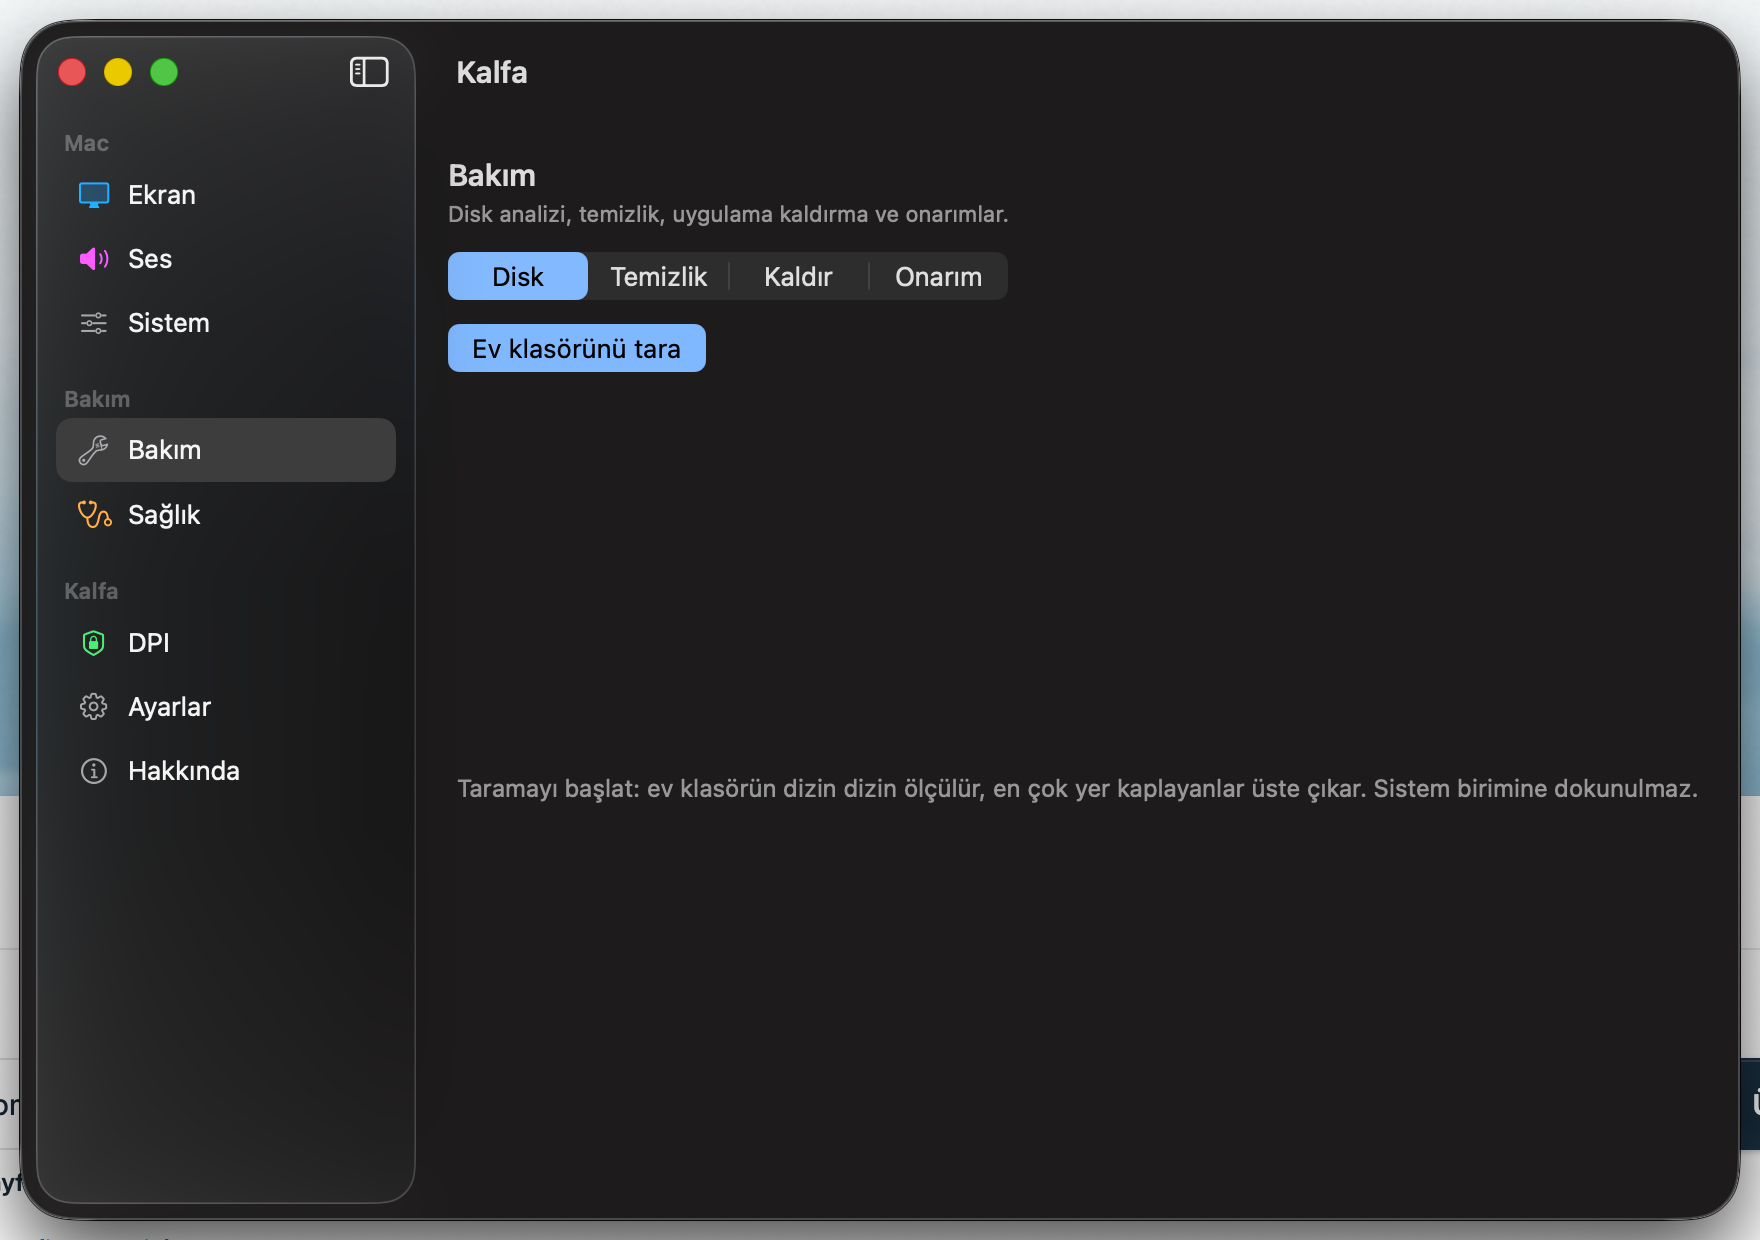
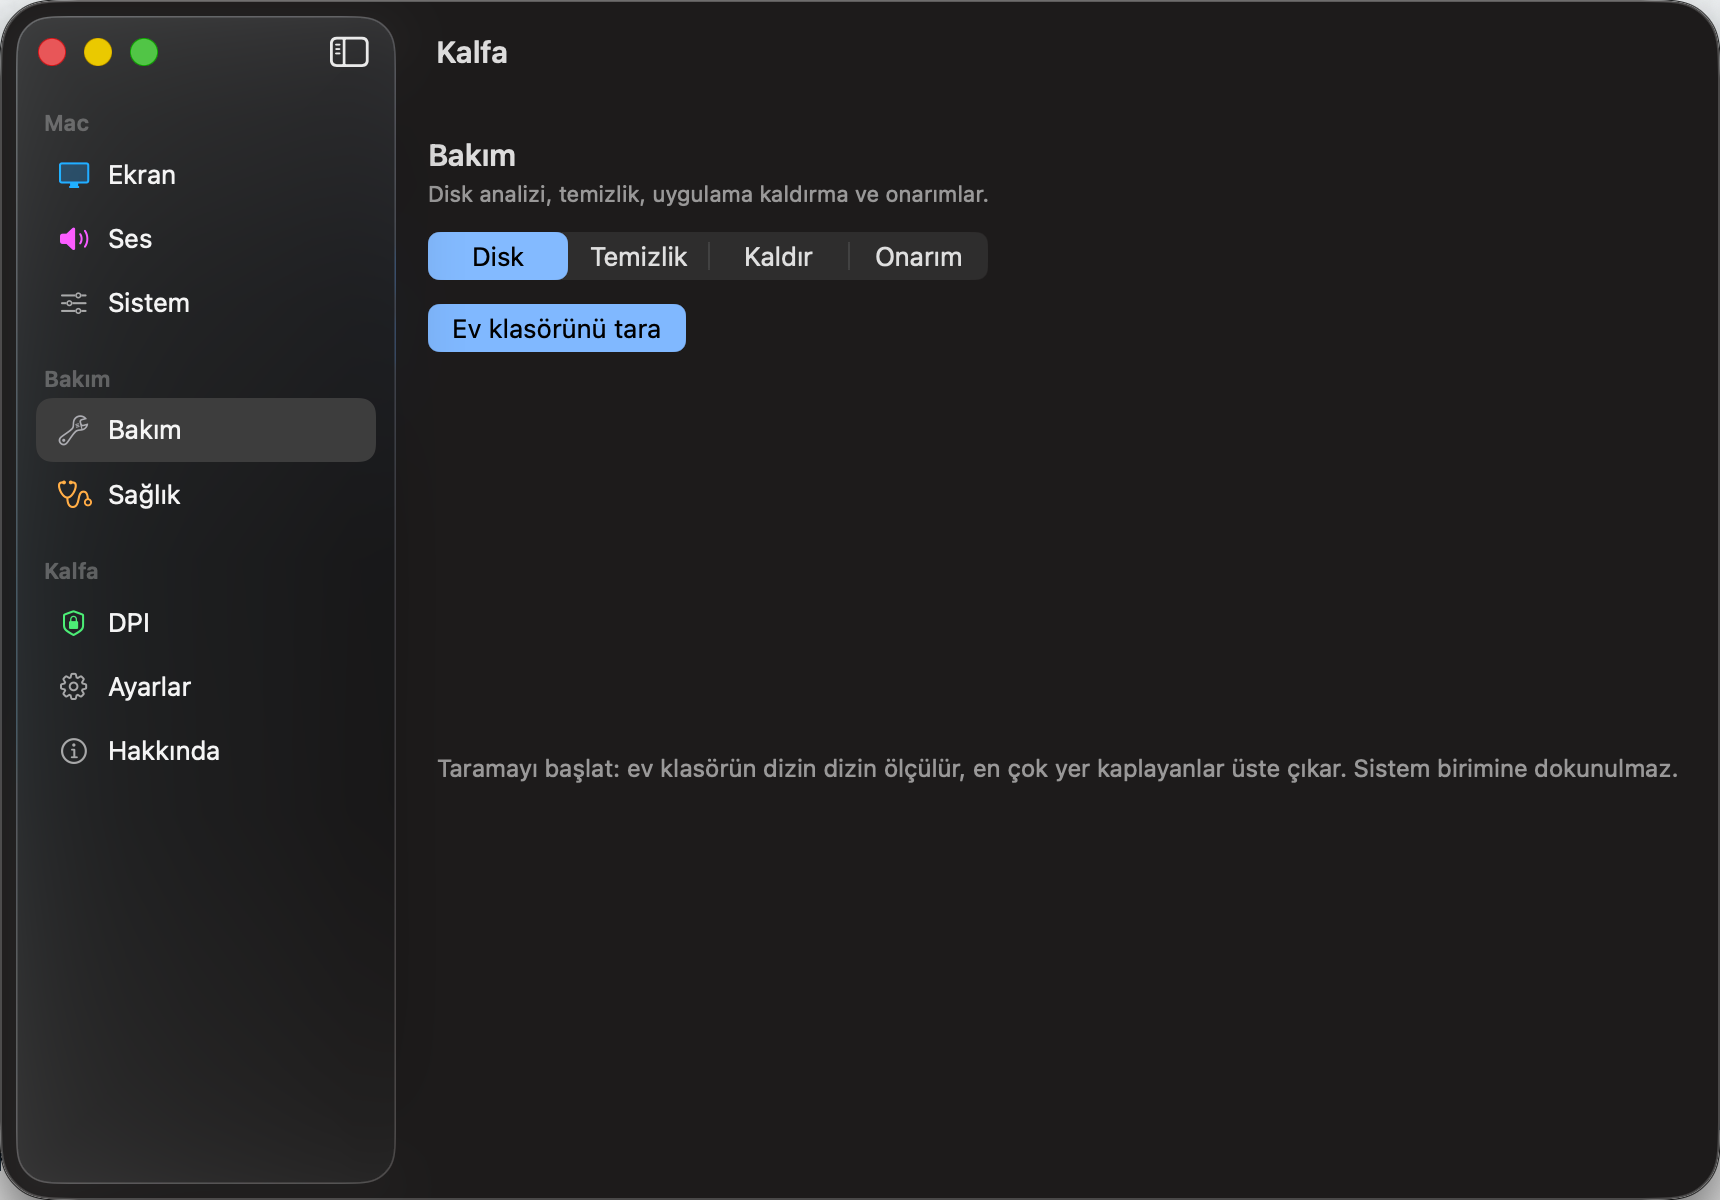
ci: derleme ve test iş akışı + CHANGELOG
Herkese açık bir depoda ziyaretçinin ilk sorusu "derleniyor mu" oluyor;
rozet bunu cevaplıyor. İş akışı uygulamayı derliyor, bakım testlerini ve
DPI'nın ağ gerektirmeyen testlerini koşuyor, sonra --dump çıktısını
alıyor.

Ağ testleri bilerek dışarıda: proxy oturumu gerçek sitelere bağlanıyor,
koşucunun ağı yavaşlayınca kırmızı yanar ve bir süre sonra kimse CI'ya
bakmaz olur. Ayrıştırıcı ve parçalayıcı testleri saf mantık, her koşuda
çalışıyor.

Ekran görüntülerindeki kenar payı kırpıldı: arkadaki pencerelerden
okunaksız metin parçaları görünüyordu.

Changed region(s): [[0.0, 0.0, 1.0, 1.0], [0.2465, 0.1233, 0.5855, 0.3083]]

diff --git a/CHANGELOG.md b/CHANGELOG.md
@@ -1,0 +1,39 @@
+# Değişiklikler
+
+Biçim: [Keep a Changelog](https://keepachangelog.com/tr/1.1.0/),
+sürümleme [SemVer](https://semver.org/lang/tr/).
+
+## [Yayınlanmadı]
+
+İlk herkese açık sürüm hazırlanıyor. Aşağıdakiler `v1.0.0` ile yayınlanacak.
+
+### Eklendi
+- Menü çubuğu paneli: durum çipleri, altı anahtar, beş açılır kart.
+- Tek pencere (kenar çubuklu): Ekran · Ses · Sistem · Bakım · Sağlık · DPI ·
+  Ayarlar · Hakkında.
+- Komut paleti: kısayolla her yerden, Türkçe karakterden bağımsız arama.
+- Ekran: HiDPI, gizli modlar, piksel eşleşmesi etiketleri, 15 saniyelik onaylı
+  geçiş, DDC parlaklık/kontrast, kablo sinyali göstergesi, profiller.
+- Ses: cihaz seçimi, cihaz başına seviye hafızası, gerçek sistem geneli mikrofon
+  susturma, uygulama başına karıştırıcı (macOS 14.2+).
+- Sistem: uyanık tut, sunum modu, zamanlayıcı, pencere yerleştirme, DNS, harici
+  disk çıkarma, gizli anahtarlar, klavye kısayolları.
+- Bakım: disk analizi, temizlik, uygulama kaldırma, onarım.
+- Sağlık: bir özelliğin neden çalışmadığını tek sayfada gösterir.
+- Kesintisiz fare kaydırması.
+- DPI: engellenen sitelere erişim; kendi proxy motoru.
+- `kalfa://window?section=<ad>` ve `ezdpi://on|off|auto|relaunch` URL şemaları.
+- TR/EN arayüz, uygulama içinden dil seçimi.
+
+### Değişti
+- Klapa ve ezDPI tek uygulamada birleşti; ürün adı **Kalfa**.
+- DPI motoru gömülü `spoofdpi` ikilisi yerine Kalfa'nın kendi kodu. Kazanç: TLS
+  kaydı parçalama, gömülü ikili yok, Intel desteği bedava, kural değişikliği
+  motoru yeniden başlatmıyor.
+- Dokuz ayrı pencere ve popover üç yüzeye indi.
+
+### Bilinen sınırlar
+- Mac App Store'a giremez (özel API ve sandbox dışı işler).
+- Root gerektiren DPI teknikleri (sahte TTL, sıra dışı segment) kapsam dışı.
+- Erişilebilirlik izni imzaya bağlıdır; ad-hoc imzalı derlemede her yeniden
+  derlemede tekrar istenir.
